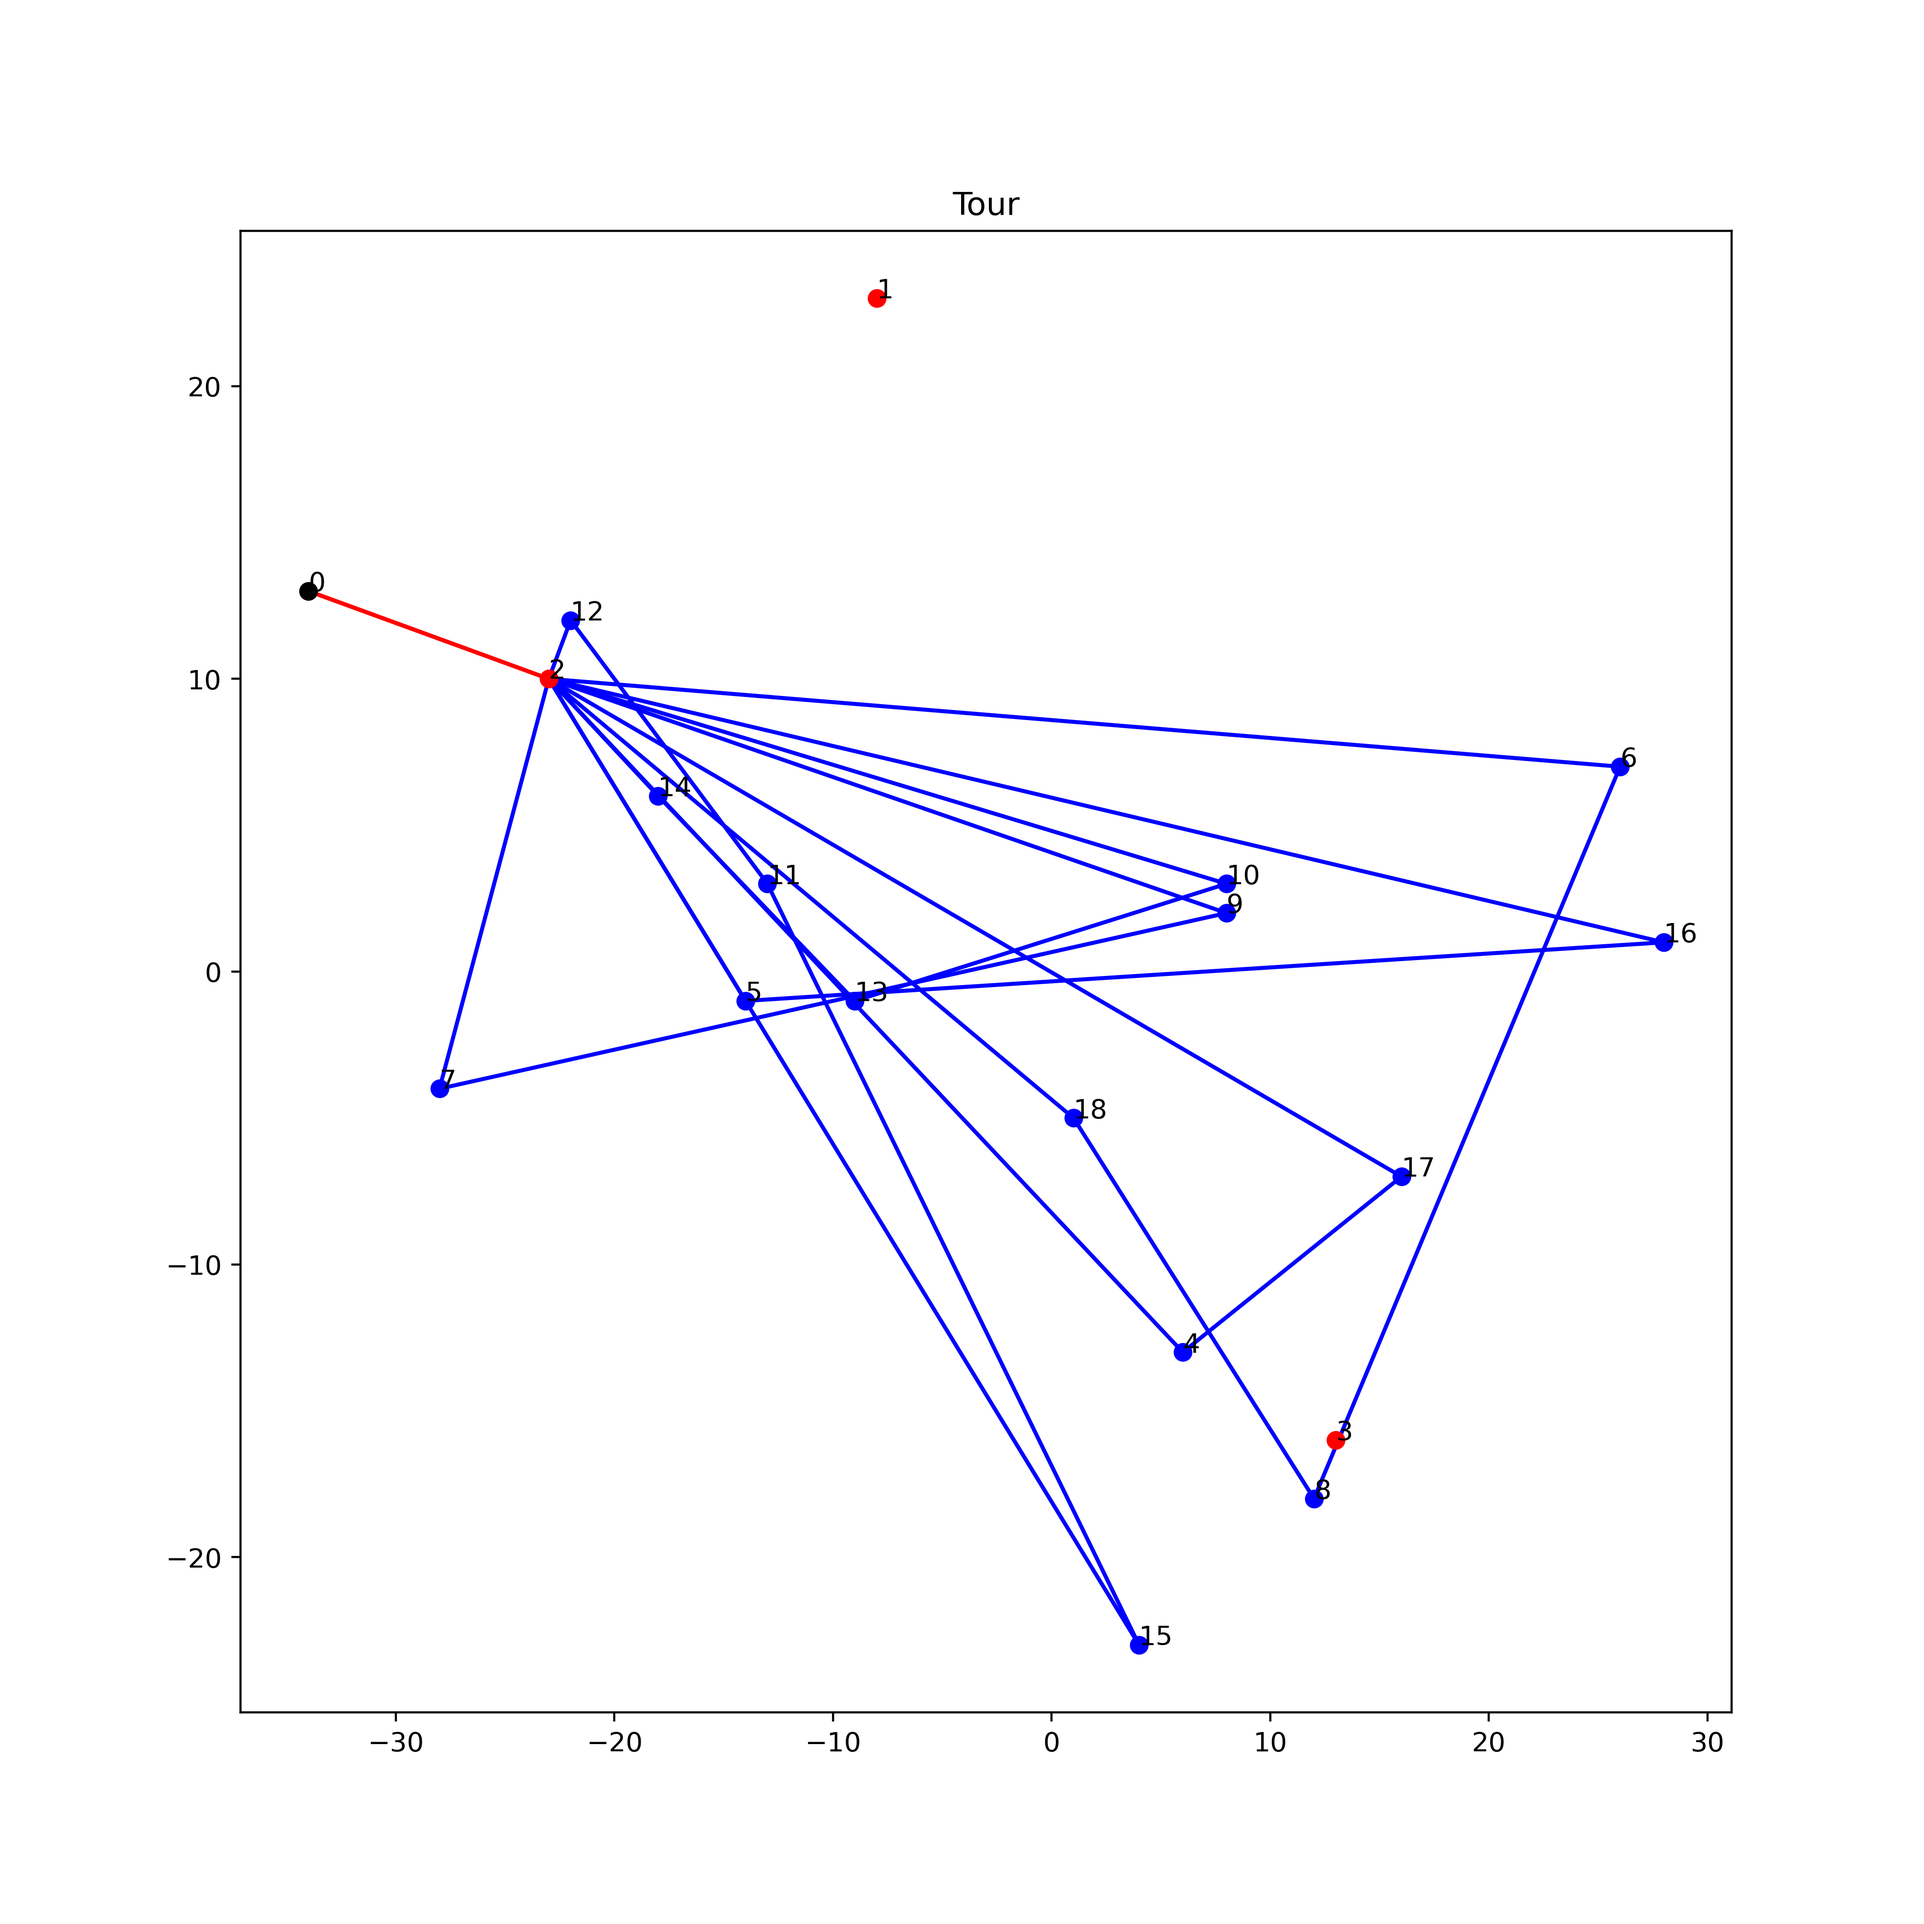
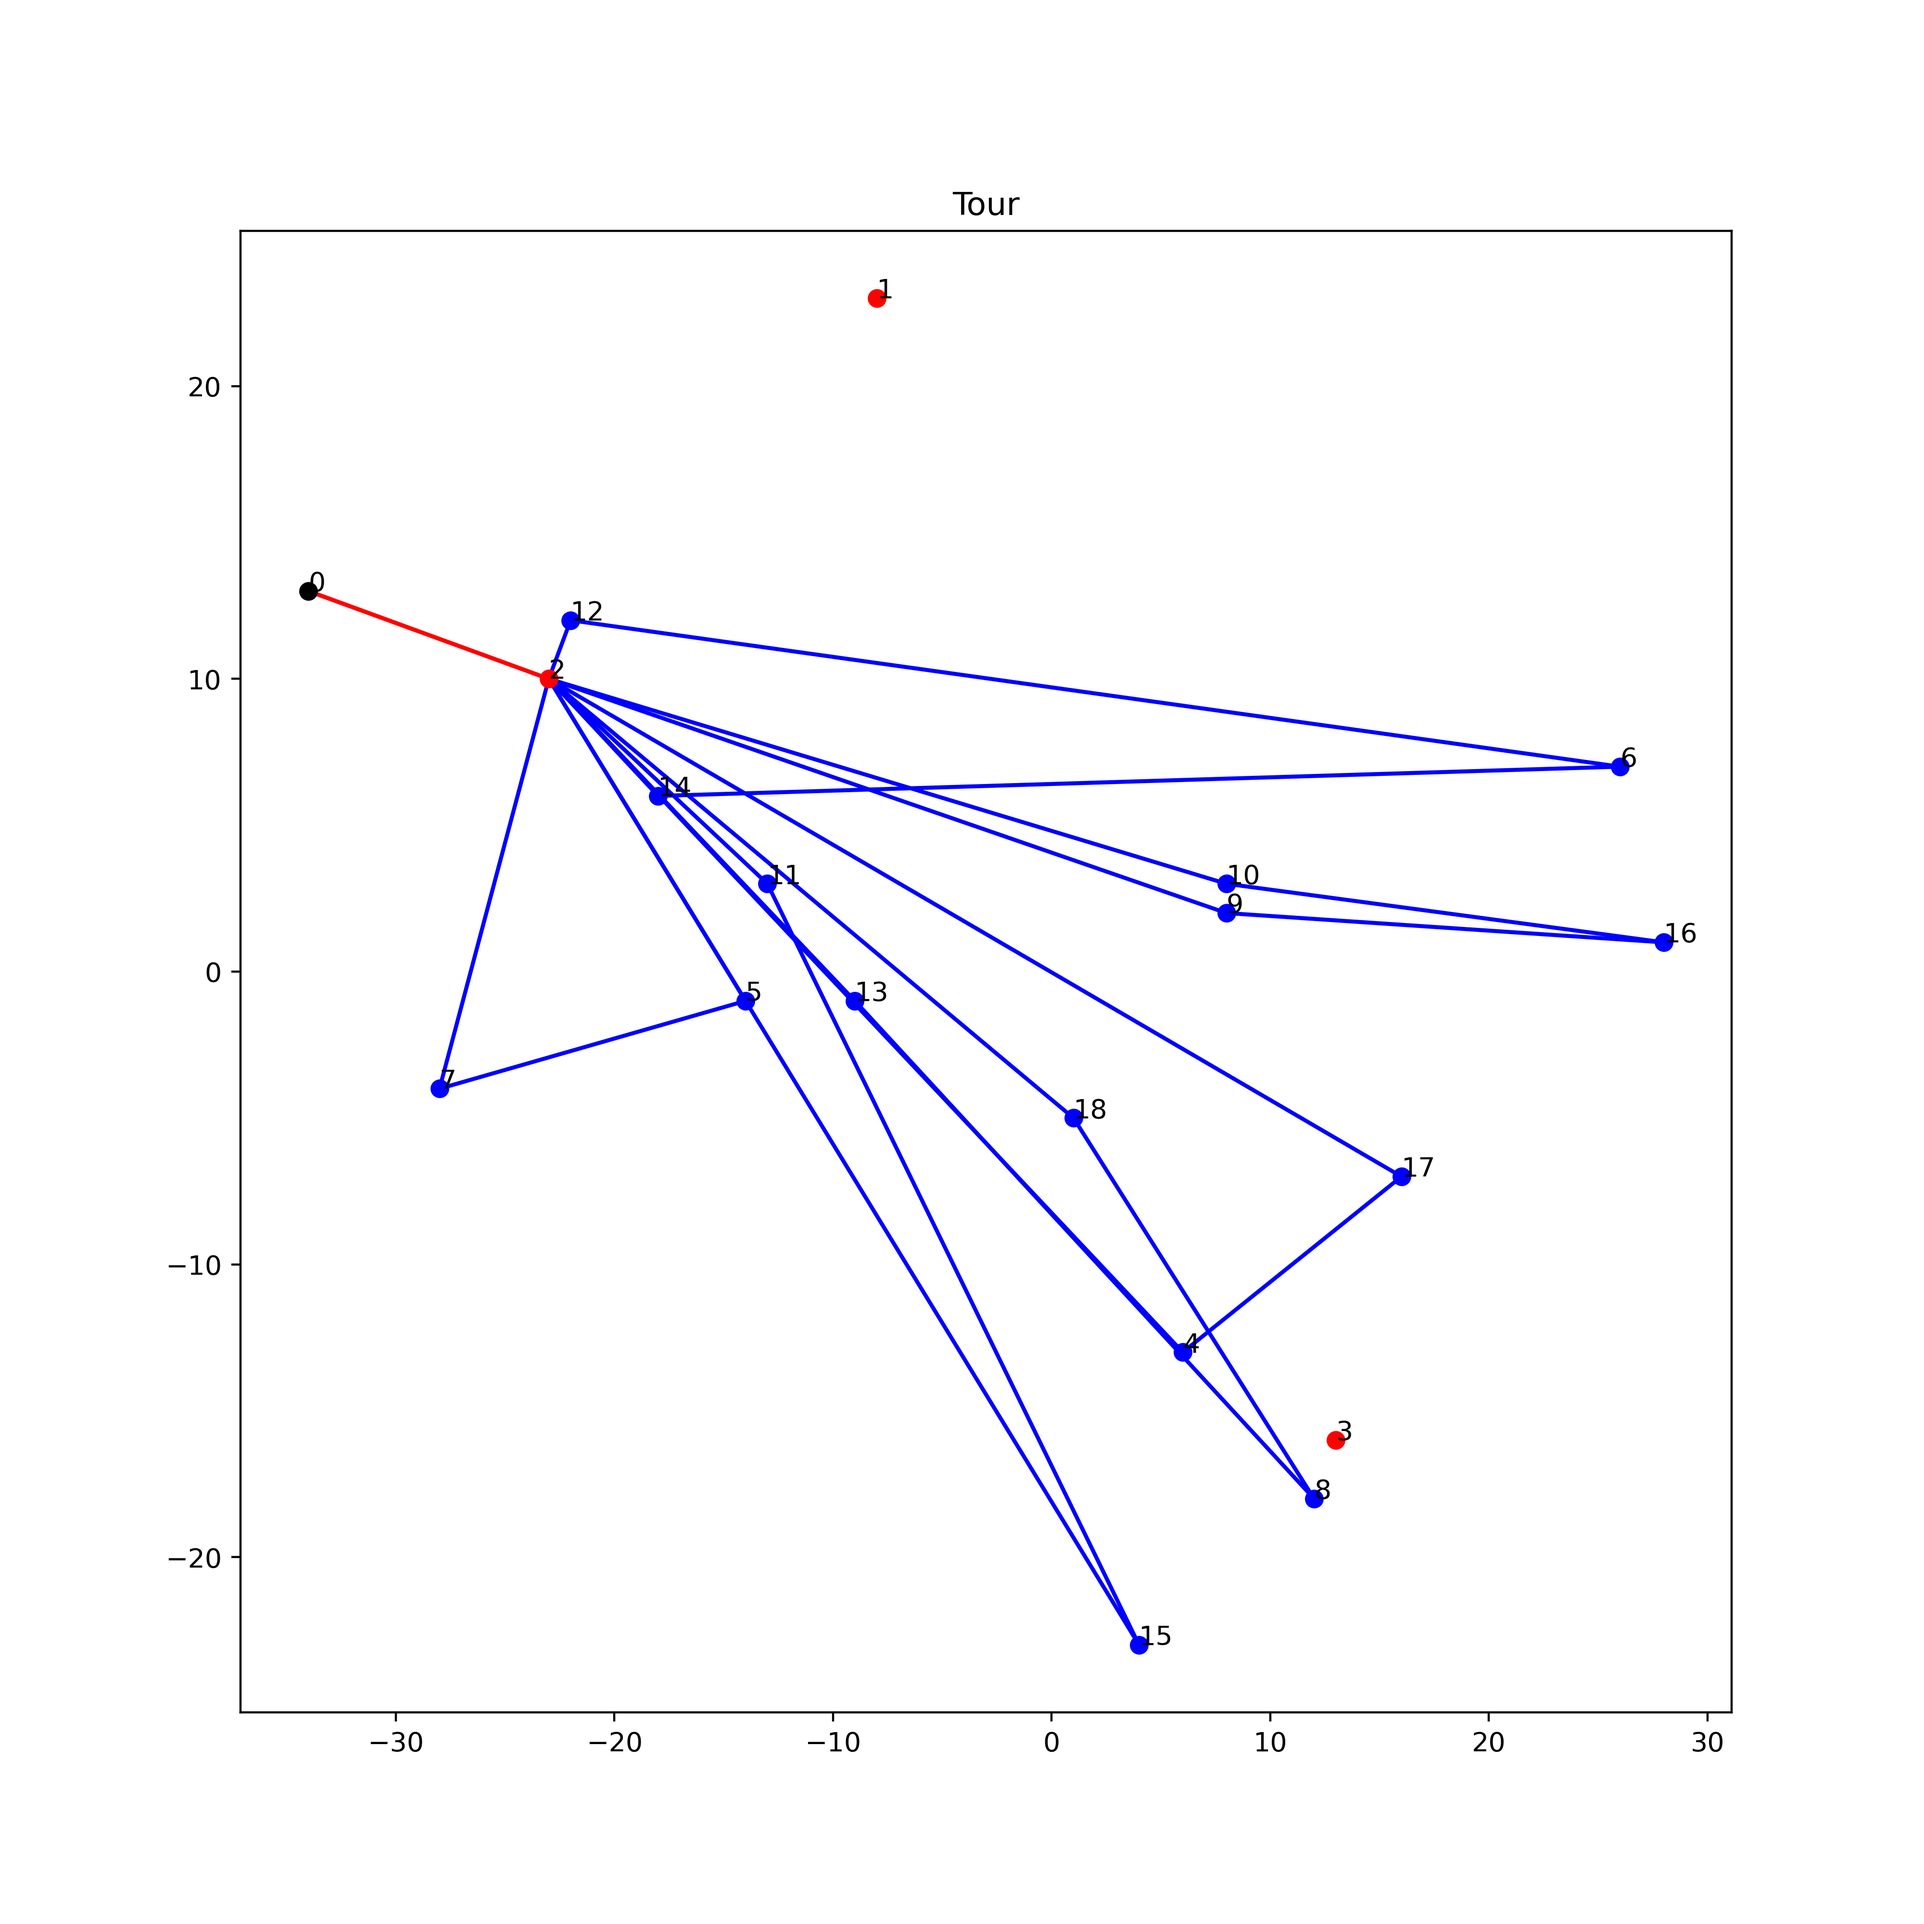
pertubation alt

diff --git a/Solution.py b/Solution.py
@@ -464,7 +464,7 @@ class Solution:
                 if afterInsertion is not None:
                     cost = afterInsertion.cost-route.cost
                     if pertubation:
-                        cost += cost*randomGen.uniform(-0.2, 0.2)
+                        cost += cost*pow(randomGen.random(),randomGen.uniform(-0.2, 0.2))
                 else:
                     cost = float('inf')
                 costInsert.append(cost)
@@ -535,8 +535,8 @@ class Solution:
             for iRoute, route in enumerate(self.routes_1):
                 routeBestCost, routeSecondCost, routeBest = route.findRegret(self.problem.satellites[sat-1], self.satDemandNotServed[sat-1])
                 if pertubation:
-                    routeBestCost += routeBestCost*randomGen.uniform(-0.2, 0.2)
-                    routeSecondCost += routeSecondCost*randomGen.uniform(-0.2, 0.2)
+                    routeBestCost += routeBestCost*pow(randomGen.random(),randomGen.uniform(-0.2, 0.2))
+                    routeSecondCost += routeSecondCost*pow(randomGen.random(),randomGen.uniform(-0.2, 0.2))
                 if routeBestCost < best[0]:
                     secondBest = best
                     best = (routeBestCost, iRoute)
@@ -584,8 +584,8 @@ class Solution:
                 for iRoute, route in enumerate(self.routes_1):
                     routeBestCost, routeSecondCost, routeBest = route.findRegret(self.problem.satellites[sat-1], self.satDemandNotServed[sat-1])
                     if pertubation:
-                        routeBestCost += routeBestCost*randomGen.uniform(-0.2, 0.2)
-                        routeSecondCost += routeSecondCost*randomGen.uniform(-0.2, 0.2)
+                        routeBestCost += routeBestCost*pow(randomGen.random(),randomGen.uniform(-0.2, 0.2))
+                        routeSecondCost += routeSecondCost*pow(randomGen.random(),randomGen.uniform(-0.2, 0.2))
                     if routeBestCost < best[0]:
                         secondBest = best
                         best = (routeBestCost, iRoute)
@@ -613,8 +613,8 @@ class Solution:
             for iRoute, route in enumerate(self.routes_2):
                 routeBestCost, routeSecondCost, routeBest = route.findRegret(cust.deliveryLoc, cust.deliveryLoc.demand)
                 if pertubation:
-                    routeBestCost += routeBestCost*randomGen.uniform(-0.2, 0.2)
-                    routeSecondCost += routeSecondCost*randomGen.uniform(-0.2, 0.2)
+                    routeBestCost += routeBestCost*pow(randomGen.random(),randomGen.uniform(-0.2, 0.2))
+                    routeSecondCost += routeSecondCost*pow(randomGen.random(),randomGen.uniform(-0.2, 0.2))
                 if routeBestCost < best[0]:
                     secondBest = best
                     best = (routeBestCost, iRoute)
@@ -667,8 +667,8 @@ class Solution:
                 for iRoute, route in enumerate(self.routes_2):
                     routeBestCost, routeSecondCost, routeBest = route.findRegret(cust.deliveryLoc, cust.deliveryLoc.demand)
                     if pertubation:
-                        routeBestCost += routeBestCost*randomGen.uniform(-0.2, 0.2)
-                        routeSecondCost += routeSecondCost*randomGen.uniform(-0.2, 0.2)
+                        routeBestCost += routeBestCost*pow(randomGen.random(),randomGen.uniform(-0.2, 0.2))
+                        routeSecondCost += routeSecondCost*pow(randomGen.random(),randomGen.uniform(-0.2, 0.2))
                     if routeBestCost < best[0]:
                         secondBest = best
                         best = (routeBestCost, iRoute)

diff --git a/ALNS.py b/ALNS.py
@@ -18,7 +18,7 @@ class Parameters:
     minSizeNBH = 1  # minimum neighborhood size
     maxSizeNBH = 20  # maximum neighborhood size
     randomSeed = 1  # value of the random seed
-    T = 10 # Temperature for Simulated Annealing
+    T = 40 # Temperature for Simulated Annealing
     Cool = 0.99 # Cooling rate
     # can add parameters such as cooling rate etc.
 
@@ -133,7 +133,6 @@ class ALNS:
             p = self.randomGen.random()
             Parameters.T = Parameters.Cool*Parameters.T
             if p < prob:
-                print("Toppie")
                 self.currentSolution = copy.deepcopy(self.tempSolution)
                 score = 1
                 return score
